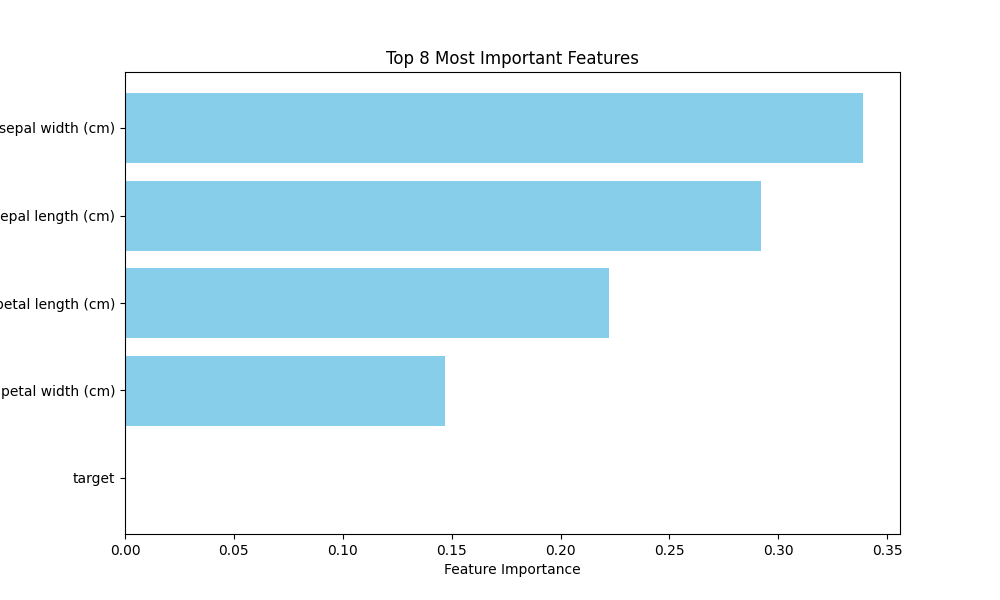
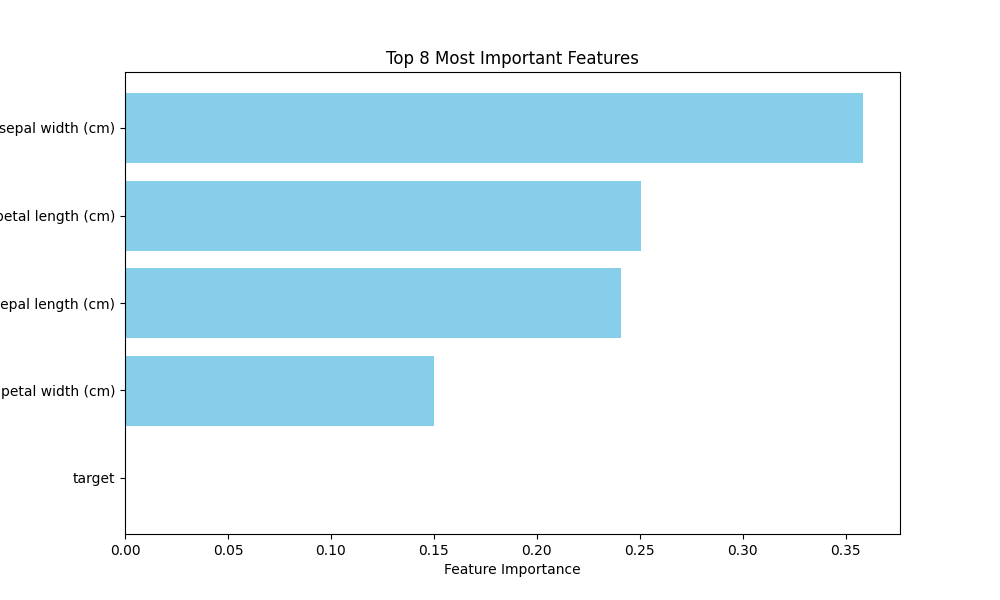
edit readme

diff --git a/src/Model/Gans/WCTGan.py b/src/Model/Gans/WCTGan.py
@@ -48,7 +48,7 @@ class WCTGan(Base_CTGan):
         # Generator
         generator_class: nn.Module = Generator,
         generator_n_layers_hidden: int = 2,
-        generator_n_units_hidden: int = 300,
+        generator_n_units_hidden: int = 500,
         generator_nonlin: str = "relu",
         generator_nonlin_out: str = "sigmoid", # This function given here should return a number between ]0; 1] because the data is processed and scaled between ]0; 1]
         generator_batch_norm: bool = False,
@@ -61,7 +61,7 @@ class WCTGan(Base_CTGan):
         # discriminator
         discriminator_class: nn.Module = Discriminator,
         discriminator_n_layers_hidden: int = 2,
-        discriminator_n_units_hidden: int = 300,
+        discriminator_n_units_hidden: int = 500,
         discriminator_nonlin: str = "leaky_relu",
         discriminator_batch_norm: bool = False,
         discriminator_dropout: float = 0.1,
@@ -86,7 +86,7 @@ class WCTGan(Base_CTGan):
         lambda_cond_loss_weight: float = 1,
         lambda_cond_classifier_loss_weight: float = 0,
         lambda_mean_loss_weight: float = 0, # values like 1 or 0 make sence (turn it of or on dont weight it)
-        lambda_correlation_loss_weight: float = 0, # values like 1 or 0 make sence (turn it of or on dont weight it)
+        lambda_correlation_loss_weight: float = 1, # values like 1 or 0 make sence (turn it of or on dont weight it)
         lambda_cov_weight : float = 0, 
 
         # training
@@ -289,7 +289,6 @@ class WCTGan(Base_CTGan):
             self.init_generator_extra_penalties(ctgan_data_set)
 
            
-        
         # for better readability
         generator = self.generator
         discriminator = self.discriminator

diff --git a/README.md b/README.md
@@ -1,0 +1,63 @@
+<h3 align="center">
+    Conditional GAN for Tabular Data Generation
+</h4>
+
+---
+
+<div align="center">
+    [![Tabular Data](https://img.shields.io/badge/Tabular%20Data-%E2%9C%85-green)](#)
+    [![Generative AI](https://img.shields.io/badge/Generative%20AI-%E2%9A%A1-yellow)](#)
+    [![License: MIT](https://img.shields.io/badge/License-MIT-blue)](https://opensource.org/licenses/MIT)
+</div>
+
+
+## Infos:
+This CTGAN repository is a project I created for fun. Feel free to use it for whatever you want! Due to time constraints, I haven’t provided a tutorial for the different loss functions and other functions, 
+but feel free to explore them on your own
+
+
+## :rocket: Sample Usage
+
+```bash
+$ git clone https://github.com/ZanderNic/SATGan.git
+```
+TODO EDIT
+
+### Generic data
+* List the available general-purpose generators
+
+```python
+from synthcity.plugins import Plugins
+
+Plugins(categories=["generic", "privacy"]).list()
+```
+
+* Load and train a tabular generator
+
+```python
+from src.Model.Gans.WCTGan import WCTGan
+from src.Data.dataset import CTGan_data_set
+from sklearn.datasets import load_iris
+
+iris = load_iris(as_frame=True)
+df = iris['frame']
+
+data_set = CTGan_data_set(
+    data=df,
+    cond_cols=["target"],
+    cat_cols=["target"]  
+)
+
+wctgan = WCTGan()
+
+crit_loss, gen_loss = wctgan.fit(
+    data_set, 
+    n_epochs=10, 
+)
+
+cond_df = pd.DataFrame([{"target" : 1}]*160)
+syn_df = wctgan.gen(cond_df=cond_df)
+```
+
+* Generate new synthetic tabular data
+
